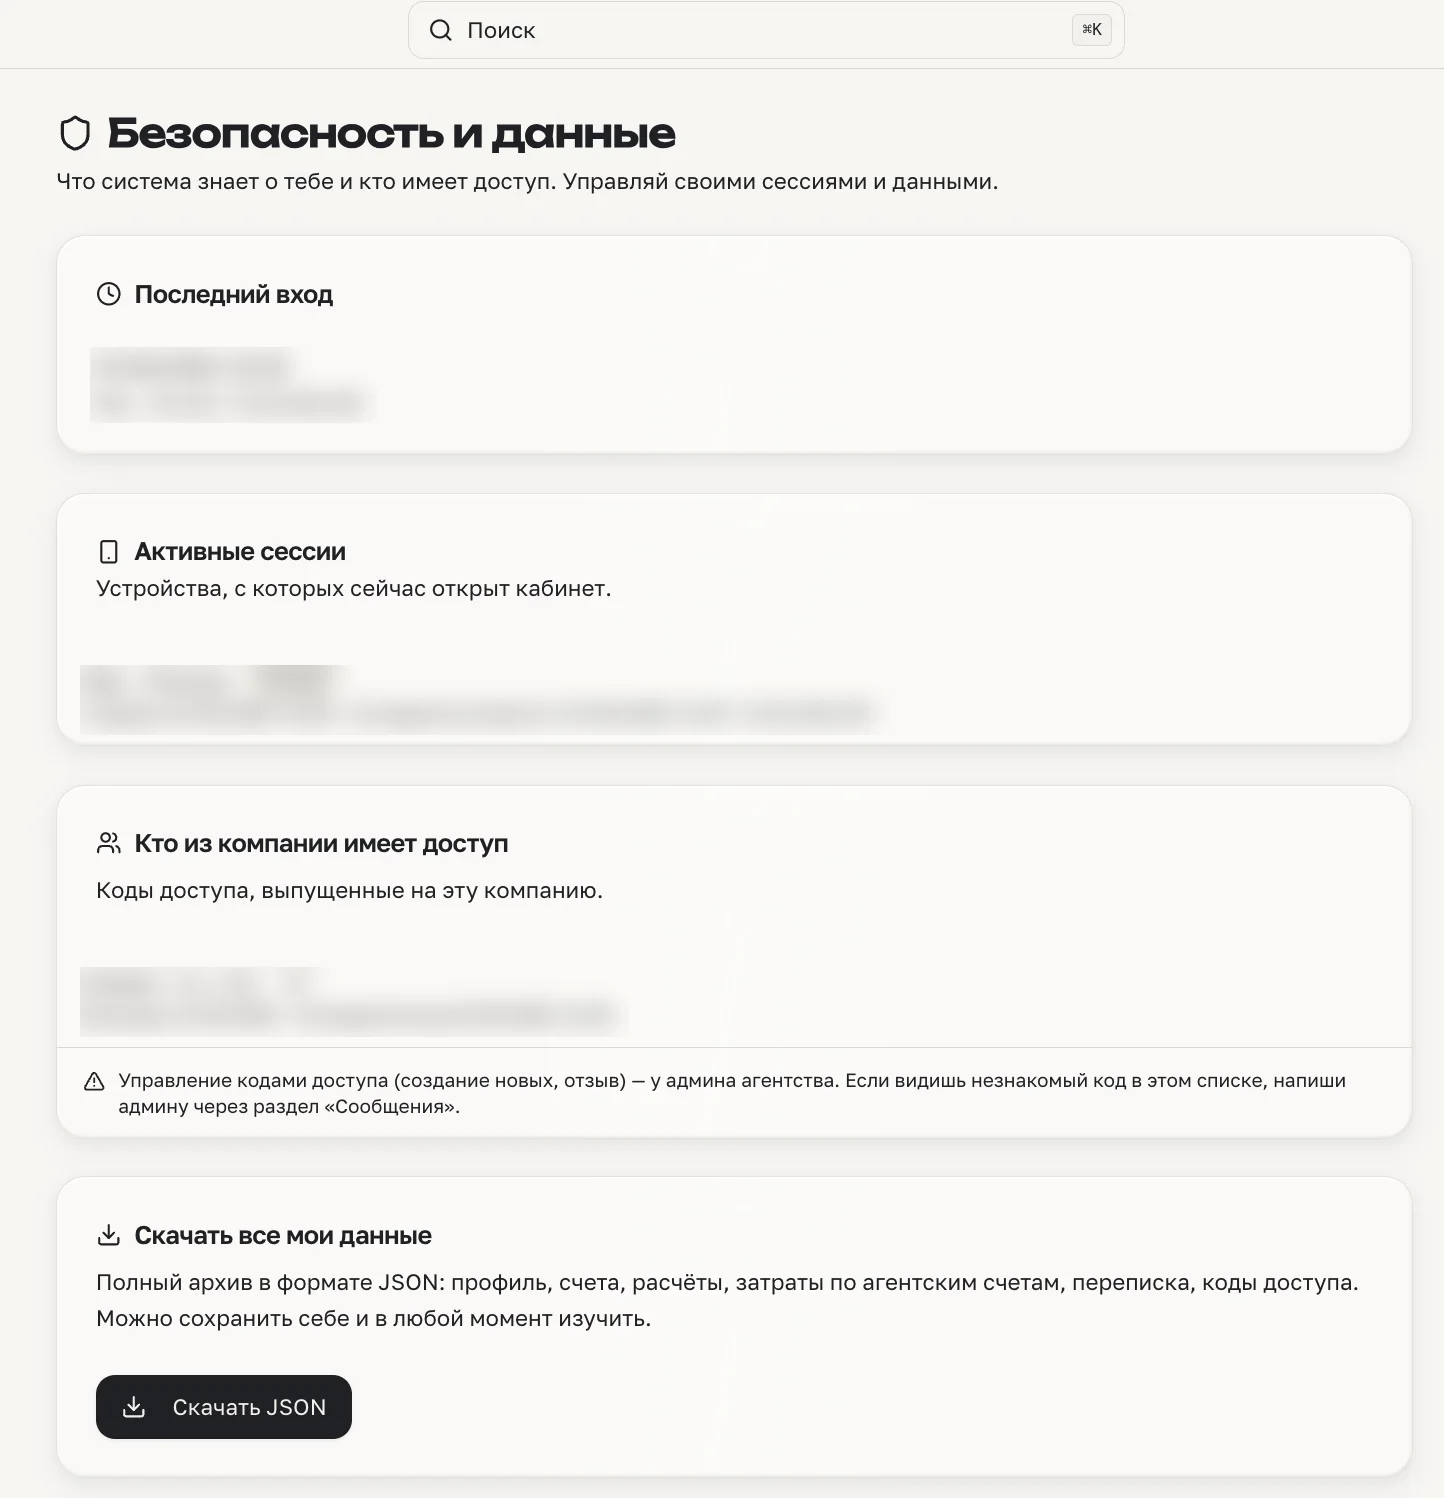
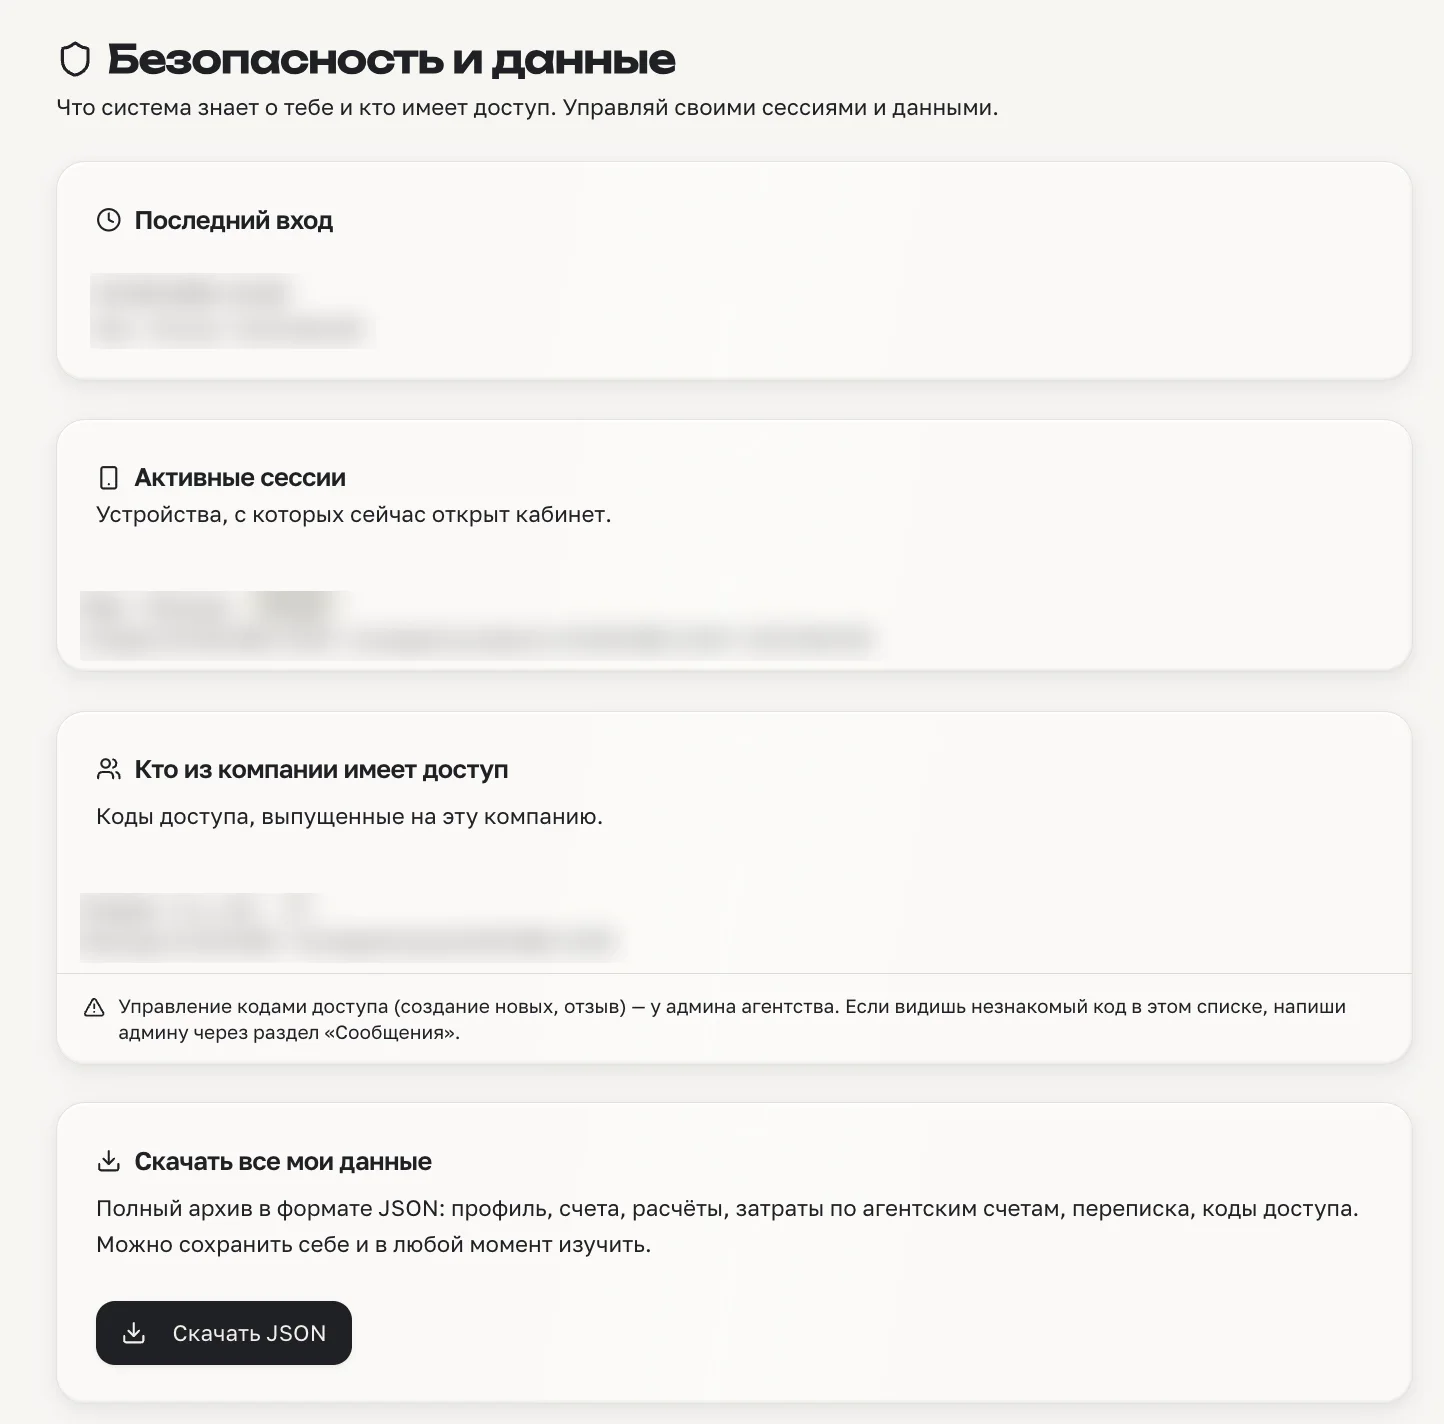
Полировка раздела «Бизнес-эффект»
Карточки «Три ситуации» ведут на продуктовые страницы (стрелка в углу),
из скрина безопасности срезана строка поиска, починена анимация пар
в «Гарантиях» (display:contents глотал opacity), у второй колонки
форматов убран случайный акцентный узел в середине списка.

diff --git a/lovable/src/site/pages-effect.tsx b/lovable/src/site/pages-effect.tsx
@@ -7,6 +7,7 @@
    только через Викторию. Раскладка экранов по страницам — по документу
    «финальная структура сайта» той же даты.
    ========================================================================== */
+import { Fragment } from "react";
 import {
   motion,
   ArrowUpRight, ArrowRight, ArrowDown, Check,
@@ -239,15 +240,26 @@ export function BusinessEffectGeneralPage() {
             </RevealHeading>
             <div className="mt-10 grid gap-4 md:grid-cols-3">
               {SITUATIONS.map((it, i) => (
-                <motion.div key={it.id} {...reveal(i)} className="surface-dark notch flex h-full flex-col rounded-md p-6">
-                  <div className="flex items-center gap-3">
-                    <Stencil n={i + 1} active className="t-body" />
-                    <span className="h-px w-6 bg-[color:var(--color-line-dark)]" />
+                <motion.a
+                  key={it.id}
+                  href={it.href}
+                  {...reveal(i)}
+                  className="card-link surface-dark notch group flex h-full flex-col rounded-md p-6"
+                >
+                  <div className="flex items-center justify-between gap-3">
+                    <span className="flex items-center gap-3">
+                      <Stencil n={i + 1} active className="t-body" />
+                      <span className="h-px w-6 bg-[color:var(--color-line-dark)]" />
+                    </span>
+                    <ArrowUpRight
+                      data-arrow="diag"
+                      className="h-4 w-4 shrink-0 text-[color:var(--color-text-inverse-2)] transition-colors duration-300 group-hover:text-[color:var(--color-text-inverse)]"
+                    />
                   </div>
                   <div className="mt-4 font-display t-body font-medium text-[color:var(--color-text-inverse)]">
                     {it.situation}
                   </div>
-                </motion.div>
+                </motion.a>
               ))}
             </div>
           </div>
@@ -379,7 +391,7 @@ export function BusinessEffectGeneralPage() {
                   loading="lazy"
                   decoding="async"
                   width={1444}
-                  height={1498}
+                  height={1424}
                   className="block h-auto w-full"
                 />
               </div>
@@ -395,18 +407,20 @@ export function BusinessEffectGeneralPage() {
               <div className="t-eyebrow px-1 text-[color:var(--color-text-secondary)]">Что гарантируем</div>
               <div className="t-eyebrow hidden px-1 text-[color:var(--color-text-secondary)] md:block">Чего не гарантируем</div>
               {guarantees.map(([yes, no], i) => (
-                <motion.div key={yes} {...reveal(i)} className="contents">
-                  <PaperCard className="p-5">
-                    <div className="flex items-start gap-3">
-                      <Check className="mt-0.5 h-4 w-4 flex-none text-[color:var(--color-accent)]" />
-                      <p className="t-body text-[color:var(--color-text-primary)]">{yes}</p>
-                    </div>
-                  </PaperCard>
-                  <div className="rounded-md border border-dashed border-[color:var(--color-line)] p-5">
+                <Fragment key={yes}>
+                  <motion.div {...reveal(i)}>
+                    <PaperCard className="h-full p-5">
+                      <div className="flex items-start gap-3">
+                        <Check className="mt-0.5 h-4 w-4 flex-none text-[color:var(--color-accent)]" />
+                        <p className="t-body text-[color:var(--color-text-primary)]">{yes}</p>
+                      </div>
+                    </PaperCard>
+                  </motion.div>
+                  <motion.div {...reveal(i)} className="rounded-md border border-dashed border-[color:var(--color-line)] p-5">
                     <div className="mb-1 t-eyebrow text-[color:var(--color-text-secondary)] md:hidden">Чего не гарантируем</div>
                     <p className="t-body text-[color:var(--color-text-secondary)]">{no}</p>
-                  </div>
-                </motion.div>
+                  </motion.div>
+                </Fragment>
               ))}
             </div>
           </div>
@@ -618,7 +632,7 @@ export function InternalExpertsPage() {
             </p>
             <div className="mt-8 grid max-w-5xl gap-x-10 md:grid-cols-2">
               <NodeList divided items={formats.slice(0, 4)} />
-              <NodeList divided className="max-md:border-t-0" items={formats.slice(4)} />
+              <NodeList divided accentFirst={false} className="max-md:border-t-0" items={formats.slice(4)} />
             </div>
           </div>
         </div>

diff --git a/lovable/src/site/core.tsx b/lovable/src/site/core.tsx
@@ -577,11 +577,15 @@ export function NodeList({
   className = "",
   itemClassName = "",
   divided = false,
+  accentFirst = true,
 }: {
   items: ReactNode[];
   className?: string;
   itemClassName?: string;
   divided?: boolean;
+  /* false — когда список продолжает соседний (вторая колонка):
+     акцентный узел только у настоящего первого пункта */
+  accentFirst?: boolean;
 }) {
   return (
     <ul
@@ -592,7 +596,7 @@ export function NodeList({
           key={i}
           className={`flex items-start gap-3 ${divided ? "py-3.5" : ""} ${itemClassName}`}
         >
-          <NodeBullet active={i === 0} className="mt-[0.55em]" />
+          <NodeBullet active={accentFirst && i === 0} className="mt-[0.55em]" />
           <span className="flex-1">{it}</span>
         </li>
       ))}
